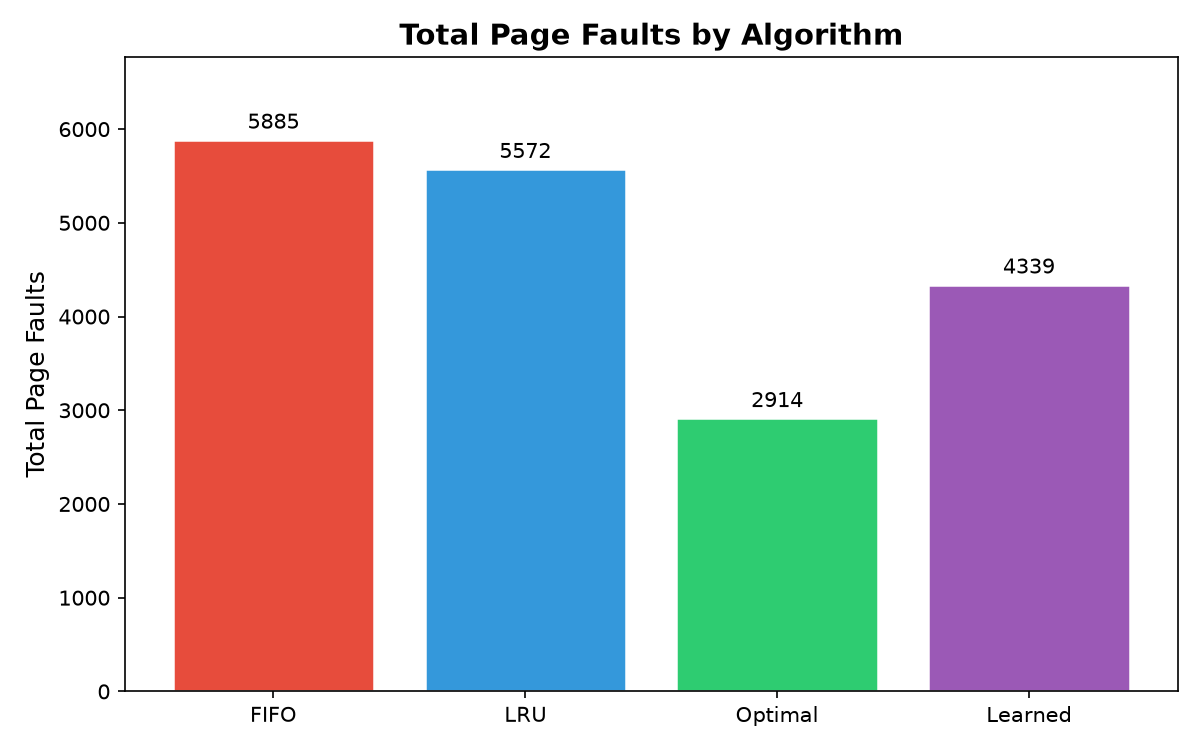
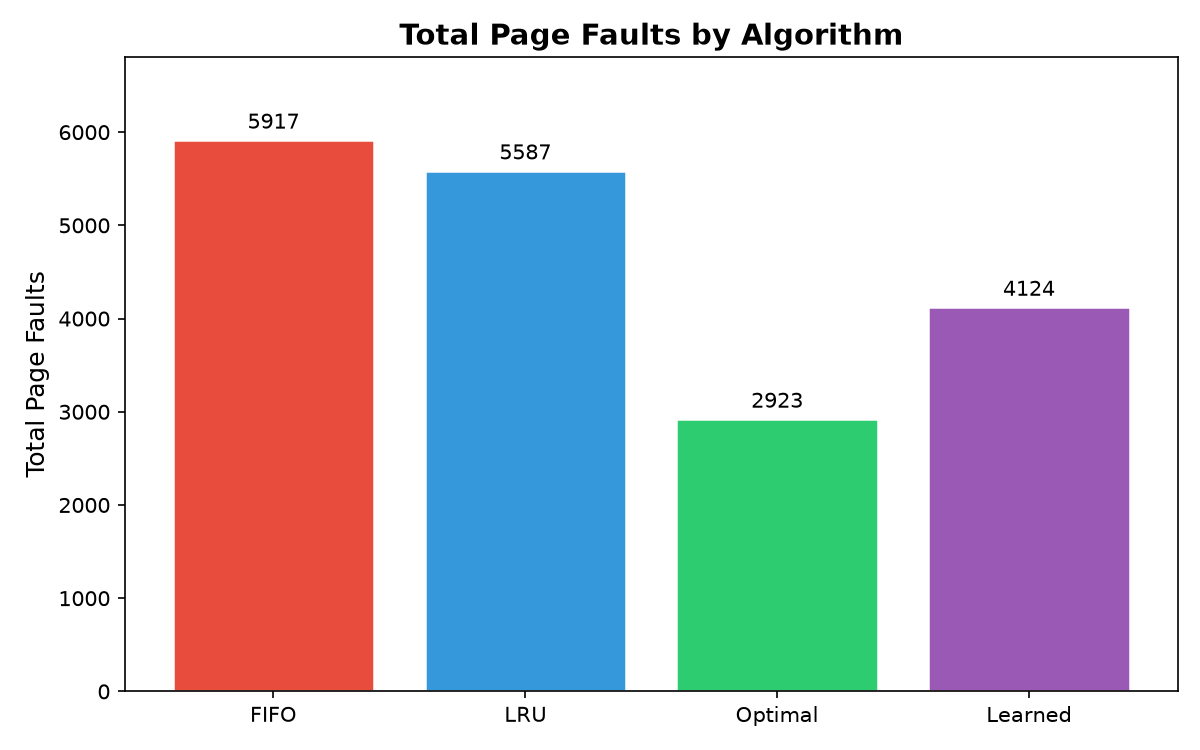
Random Commit

diff --git a/README.md b/README.md
@@ -176,10 +176,10 @@ After running `main.py`, the console prints a table like:
 ```
   Algorithm  |  Faults | Hit Ratio | Phase1 HR | Phase2 HR | Degradation
   ----------------------------------------------------------------------
-  FIFO       |    5885 |    0.4115 |    0.3338 |    0.4892 |     -0.1554
-  LRU        |    5572 |    0.4428 |    0.3980 |    0.4876 |     -0.0896
-  Optimal    |    2914 |    0.7086 |    0.7628 |    0.6544 |     +0.1084
-  Learned    |    4339 |    0.5661 |    0.6436 |    0.4886 |     +0.1550
+  FIFO       |    5917 |    0.4083 |    0.3370 |    0.4796 |     -0.1426
+  LRU        |    5587 |    0.4413 |    0.4068 |    0.4758 |     -0.0690
+  Optimal    |    2923 |    0.7077 |    0.7674 |    0.6480 |     +0.1194
+  Learned    |    4124 |    0.5876 |    0.6984 |    0.4768 |     +0.2216
 ```
 
 Four plots are also generated in the `results/` directory, visualizing the comparison across algorithms:
